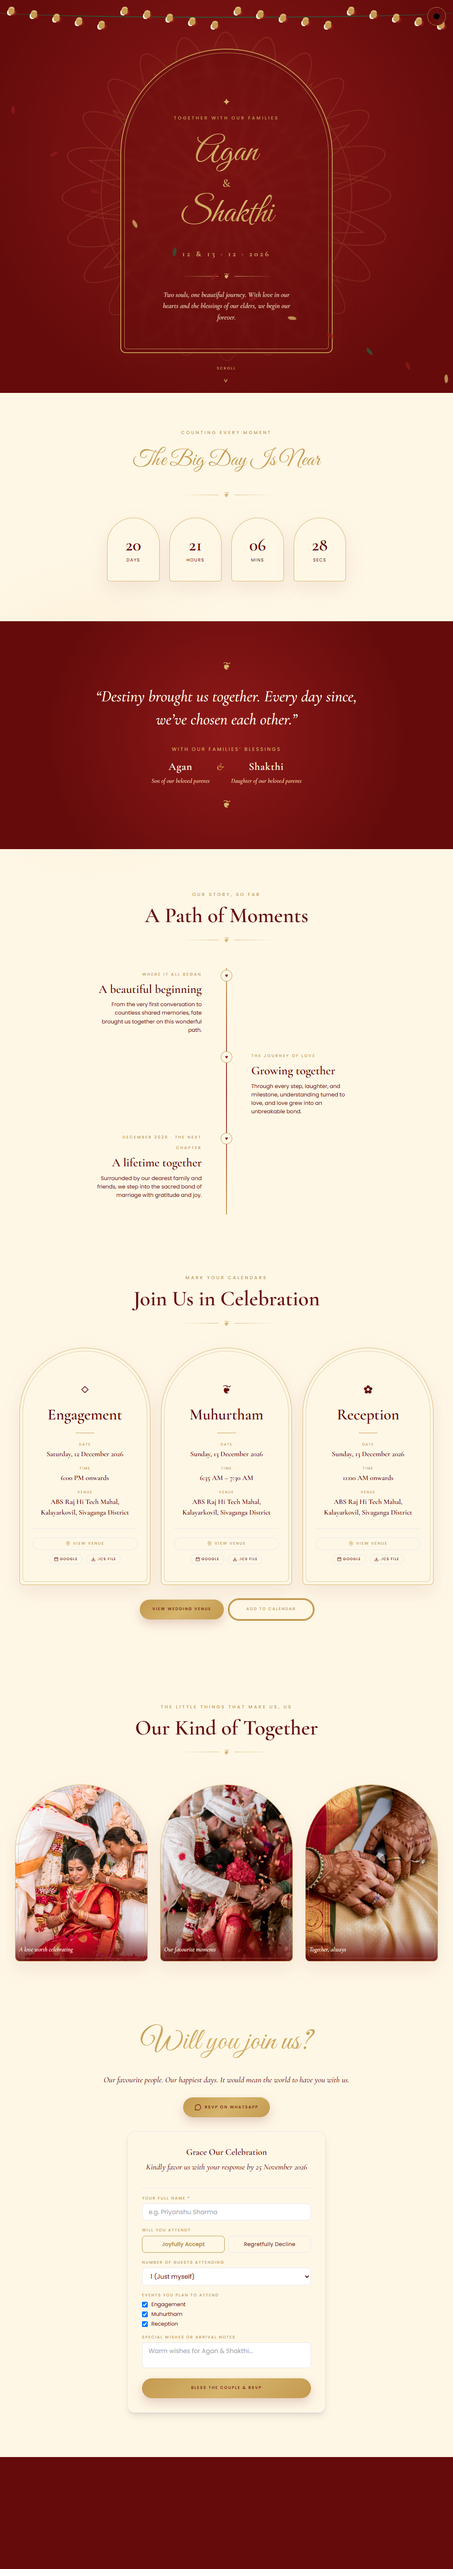
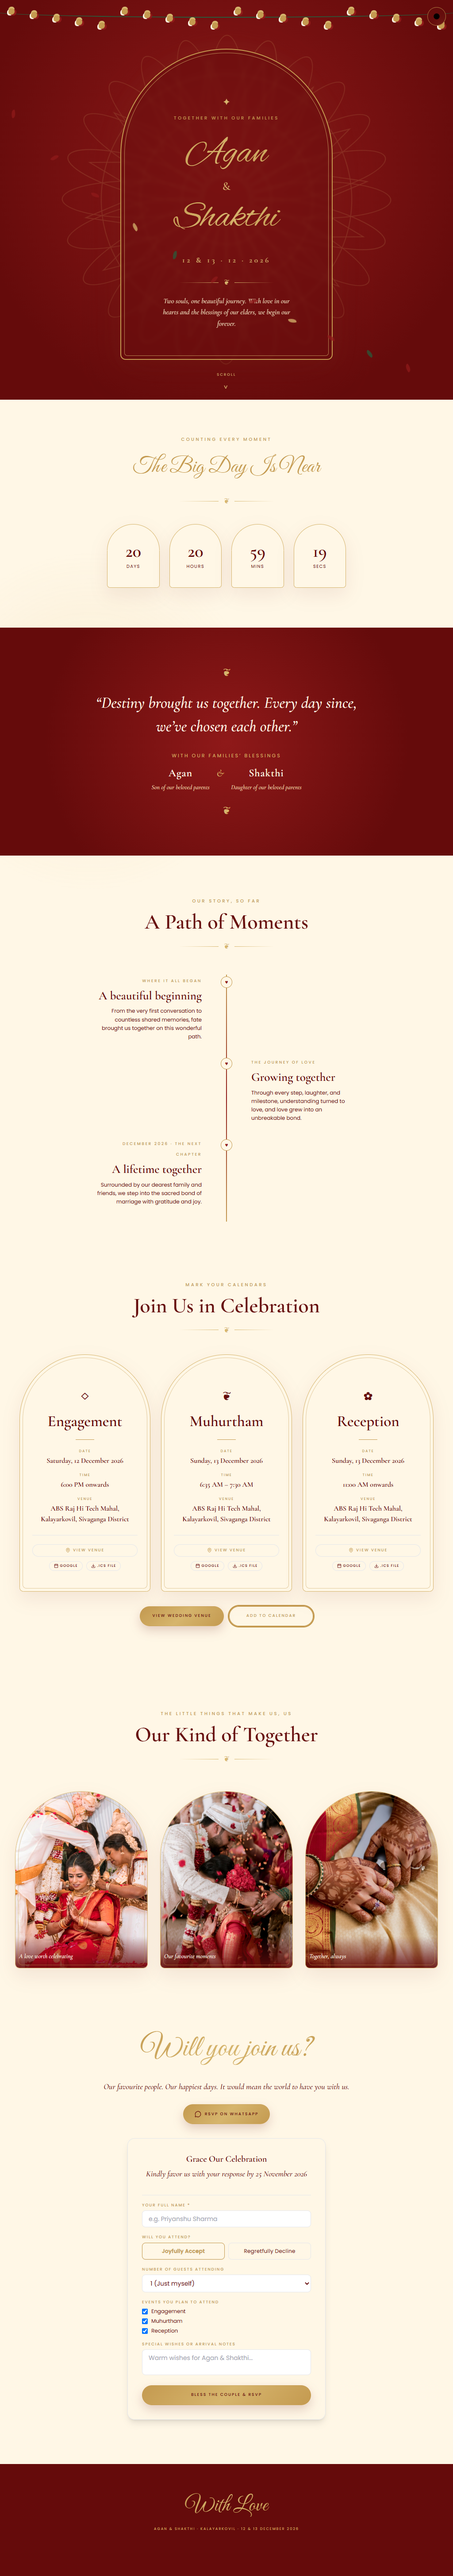
style: update couple names to Alex Brush for a clear, elegant capital A in Agan

diff --git a/index.html b/index.html
@@ -19,11 +19,11 @@
     <meta name="twitter:card" content="summary_large_image" />
     <meta name="theme-color" content="#650b0b" />
 
-    <!-- Google Fonts: Cormorant Garamond, Great Vibes, Poppins -->
+    <!-- Google Fonts: Cormorant Garamond, Great Vibes, Alex Brush, Poppins -->
     <link rel="preconnect" href="https://fonts.googleapis.com" />
     <link rel="preconnect" href="https://fonts.gstatic.com" crossorigin />
     <link
-      href="https://fonts.googleapis.com/css2?family=Cormorant+Garamond:ital,wght@0,500;0,600;1,500;1,600&family=Great+Vibes&family=Poppins:wght@300;400;500&display=swap"
+      href="https://fonts.googleapis.com/css2?family=Alex+Brush&family=Cormorant+Garamond:ital,wght@0,500;0,600;1,500;1,600&family=Great+Vibes&family=Poppins:wght@300;400;500&display=swap"
       rel="stylesheet"
     />
   </head>

diff --git a/src/index.css b/src/index.css
@@ -446,8 +446,8 @@ body {
   flex-direction: column;
   align-items: center;
   margin: 16px 0 22px;
-  font-family: 'Great Vibes', cursive;
-  font-size: clamp(52px, 14vw, 78px);
+  font-family: 'Alex Brush', 'Great Vibes', cursive;
+  font-size: clamp(56px, 15vw, 84px);
   font-weight: 400;
   line-height: 1.18;
   display: flex;
